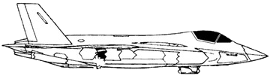
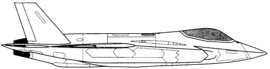
f35 new sprite

diff --git a/shilka2/Aircrafts.cs b/shilka2/Aircrafts.cs
@@ -149,7 +149,7 @@ namespace shilka2
             new AircraftsType {
                 aircraftType = "f35",
                 aircraftName = "F-35 Lightning II",
-                size = new int[] { 270, 76 },
+                size = new int[] { 270, 69 },
                 price = 108,
                 doesNotFlyInBadWeather = true
             },
